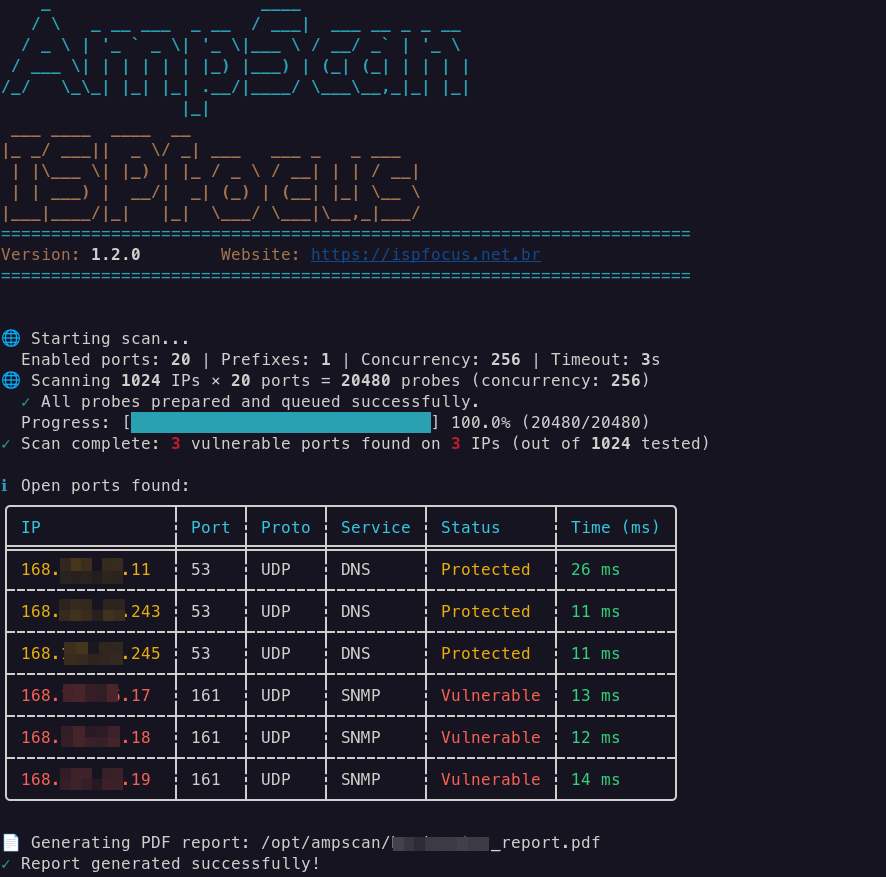
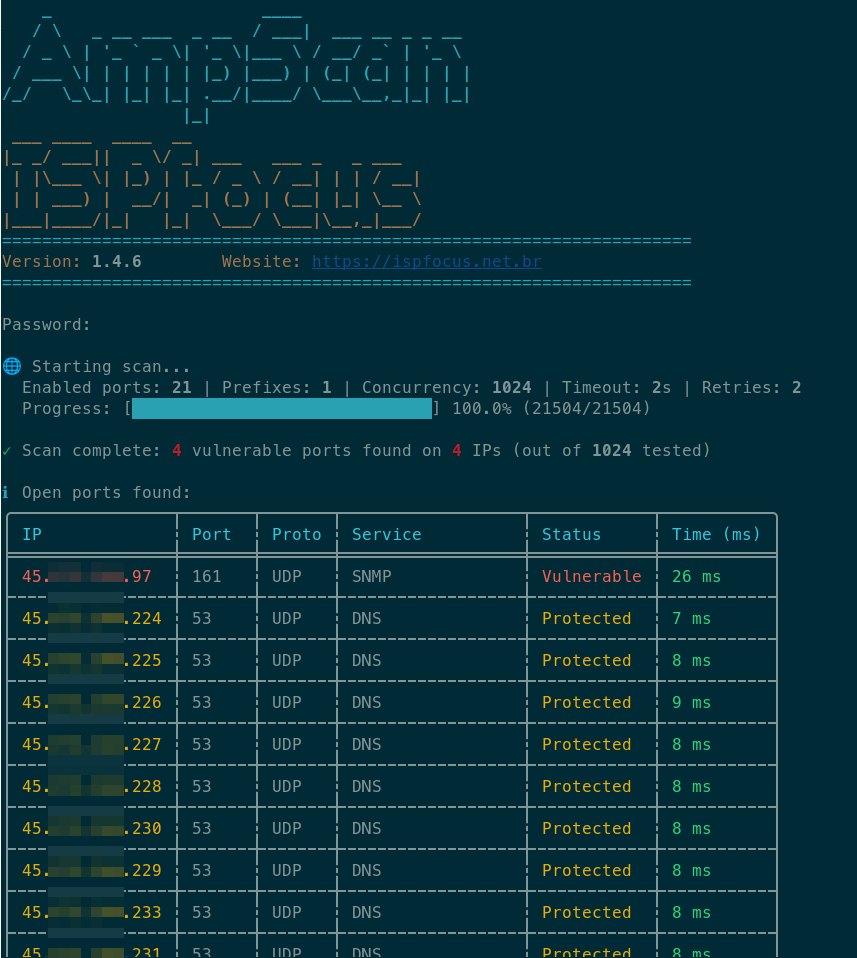
docs(readme): update CLI screenshots to v1.4.6 and replace binary invocation paths with ampscan

diff --git a/README.md b/README.md
@@ -48,7 +48,7 @@ The compiled binary will be located at `target/release/ampscan`.
 On the first run, initialize the database to create the encrypted schema, register the 21 default ports, and configure the initial administrator user password:
 
 ```bash
-./target/release/ampscan init
+ampscan init
 ```
 *Enter the desired username and set a strong password when prompted interactively.*
 
@@ -56,14 +56,14 @@ On the first run, initialize the database to create the encrypted schema, regist
 For full scanning to work, you need to register which network prefixes you own/manage to be tested:
 
 ```bash
-./target/release/ampscan prefix add --prefix "192.168.1.0/24" --description "Corporate Office Network"
+ampscan prefix add --prefix "192.168.1.0/24" --description "Corporate Office Network"
 ```
 
 ### 3. List Registered Ports
 Check the amplification ports registered in the system:
 
 ```bash
-./target/release/ampscan port list
+ampscan port list
 ```
 
 ### 4. Launch the Interactive TUI
@@ -71,7 +71,7 @@ Launch the Terminal User Interface to monitor scans, inspect results, or run tar
 
 ```bash
 # Mandatory: --db-path must be specified to load prefixes and ports
-./target/release/ampscan tui --db-path /opt/ampscan/ampscan.db -c 512 -t 2
+ampscan tui --db-path /opt/ampscan/ampscan.db -c 512 -t 2
 ```
 
 ---
@@ -86,13 +86,13 @@ AmpScan includes a rich **Terminal User Interface (TUI)** built with `ratatui` a
 
 ```bash
 # 1. Standard TUI launch with database
-./target/release/ampscan tui --db-path /path/to/ampscan.db
+ampscan tui --db-path /path/to/ampscan.db
 
 # 2. Custom concurrency (1024 threads) and probe timeout (2s)
-./target/release/ampscan tui --db-path /path/to/ampscan.db -c 1024 -t 2
+ampscan tui --db-path /path/to/ampscan.db -c 1024 -t 2
 
 # 3. TUI launch with automatic PDF report generation upon scan completion
-./target/release/ampscan tui --db-path /path/to/ampscan.db -c 512 -t 2 --pdf --recipient "SOC Team" -o /var/reports/audit.pdf
+ampscan tui --db-path /path/to/ampscan.db -c 512 -t 2 --pdf --recipient "SOC Team" -o /var/reports/audit.pdf
 ```
 
 ---
@@ -149,13 +149,13 @@ Allows you to manage which ports and payloads will be tested during the scan:
 
 *   **List:**
     ```bash
-    ./target/release/ampscan --db-path ampscan.db port list
+    ampscan --db-path ampscan.db port list
     ```
     ![Port List Output](ampscan_port_list.png)
 *   **Disable / Enable a specific port:**
     ```bash
-    ./target/release/ampscan --db-path ampscan.db port disable <ID>
-    ./target/release/ampscan --db-path ampscan.db port enable <ID>
+    ampscan --db-path ampscan.db port disable <ID>
+    ampscan --db-path ampscan.db port enable <ID>
     ```
 
 ### Prefix Management (`prefix`)
@@ -163,27 +163,27 @@ Defines the targets for batch scanning (accepts IPv4 and IPv6 ranges):
 
 *   **List:**
     ```bash
-    ./target/release/ampscan --db-path ampscan.db prefix list
+    ampscan --db-path ampscan.db prefix list
     ```
     ![Prefix List Output](ampscan_prefix_list.png)
 *   **Add:**
     ```bash
-    ./target/release/ampscan --db-path ampscan.db prefix add --prefix "2001:db8::/120" --description "IPv6 Staging Hosts"
+    ampscan --db-path ampscan.db prefix add --prefix "2001:db8::/120" --description "IPv6 Staging Hosts"
     ```
 *   **Disable / Enable:**
     ```bash
-    ./target/release/ampscan --db-path ampscan.db prefix disable <ID>
-    ./target/release/ampscan --db-path ampscan.db prefix enable <ID>
+    ampscan --db-path ampscan.db prefix disable <ID>
+    ampscan --db-path ampscan.db prefix enable <ID>
     ```
 
 ### User Management (`user`)
 *   **Add new administrator:**
     ```bash
-    ./target/release/ampscan --db-path ampscan.db user add --username new_admin
+    ampscan --db-path ampscan.db user add --username new_admin
     ```
 *   **Change password:**
     ```bash
-    ./target/release/ampscan --db-path ampscan.db user change-password --username admin
+    ampscan --db-path ampscan.db user change-password --username admin
     ```
 
 ### Running Scans (`scan`)
@@ -202,20 +202,20 @@ Fetches all prefixes and ports marked as active (`enabled`) in the database and 
 
 Robust execution example:
 ```bash
-./target/release/ampscan --db-path ampscan.db scan run --concurrency 500 --timeout 2 --pdf --output scan_june.pdf
+ampscan --db-path ampscan.db scan run --concurrency 500 --timeout 2 --pdf --output scan_june.pdf
 ```
 ![Scan Run CLI Output](ampscan_report_cli.png)
 
 Example with manual prefix:
 ```bash
-./target/release/ampscan --db-path ampscan.db scan run --prefix "10.0.0.0/29"
+ampscan --db-path ampscan.db scan run --prefix "10.0.0.0/29"
 ```
 
 #### 2. Single IP Mode (`scan single`)
 Tests all active ports against a single destination IP, printing real-time responses and timings to the console:
 
 ```bash
-./target/release/ampscan --db-path ampscan.db scan single 1.1.1.1 --timeout 2
+ampscan --db-path ampscan.db scan single 1.1.1.1 --timeout 2
 ```
 
 ---
